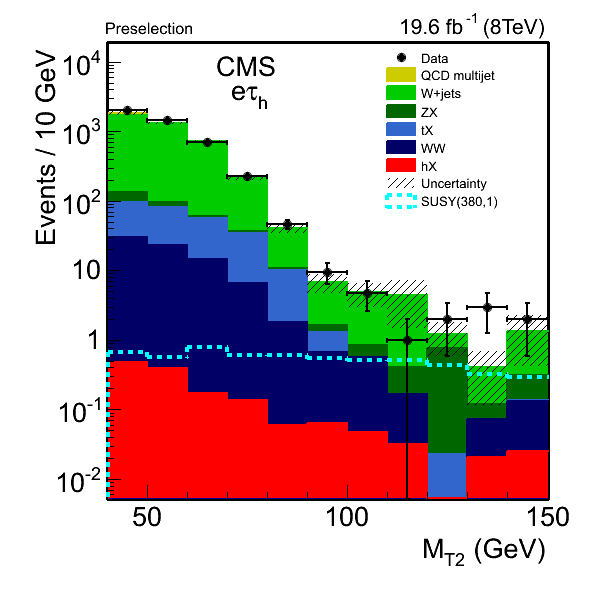
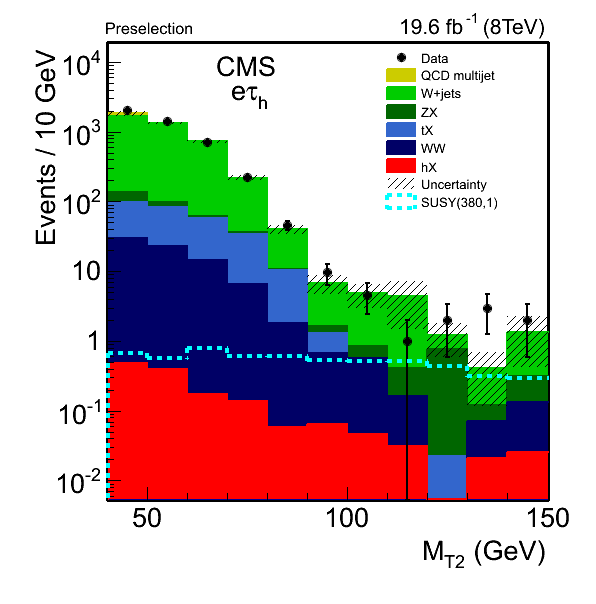
Fig.2 is updated

diff --git a/papers/SUS-14-022/trunk/SelectionEleTau/MT2_eletau.C b/papers/SUS-14-022/trunk/SelectionEleTau/MT2_eletau.C
@@ -1,7 +1,7 @@
 {
 //=========Macro generated from canvas: MT2/
-//=========  (Sat Jul 16 12:44:38 2016) by ROOT version5.34/03
-   TCanvas *MT2 = new TCanvas("MT2", "",295,82,600,632);
+//=========  (Sat Jul 16 15:17:55 2016) by ROOT version5.34/03
+   TCanvas *MT2 = new TCanvas("MT2", "",295,71,600,634);
    gStyle->SetOptFit(1);
    gROOT->SetEditHistograms();
    MT2->SetHighLightColor(2);
@@ -27,36 +27,36 @@
    MT2PreCut_MT2->SetMinimum(0.02);
    MT2PreCut_MT2->SetMaximum(9150.271);
    
-   TH1F *MT2PreCut_MT2_stack_2_stack_1_stack_1_stack_1_stack_1_stack_1 = new TH1F("MT2PreCut_MT2_stack_2_stack_1_stack_1_stack_1_stack_1_stack_1","",11,40,150);
-   MT2PreCut_MT2_stack_2_stack_1_stack_1_stack_1_stack_1_stack_1->SetMinimum(0.005221657);
-   MT2PreCut_MT2_stack_2_stack_1_stack_1_stack_1_stack_1_stack_1->SetMaximum(19509.12);
-   MT2PreCut_MT2_stack_2_stack_1_stack_1_stack_1_stack_1_stack_1->SetDirectory(0);
-   MT2PreCut_MT2_stack_2_stack_1_stack_1_stack_1_stack_1_stack_1->SetStats(0);
+   TH1F *MT2PreCut_MT2_stack_2_stack_1_stack_1_stack_1_stack_1_stack_1_stack_1 = new TH1F("MT2PreCut_MT2_stack_2_stack_1_stack_1_stack_1_stack_1_stack_1_stack_1","",11,40,150);
+   MT2PreCut_MT2_stack_2_stack_1_stack_1_stack_1_stack_1_stack_1_stack_1->SetMinimum(0.005221657);
+   MT2PreCut_MT2_stack_2_stack_1_stack_1_stack_1_stack_1_stack_1_stack_1->SetMaximum(19509.12);
+   MT2PreCut_MT2_stack_2_stack_1_stack_1_stack_1_stack_1_stack_1_stack_1->SetDirectory(0);
+   MT2PreCut_MT2_stack_2_stack_1_stack_1_stack_1_stack_1_stack_1_stack_1->SetStats(0);
 
    Int_t ci;   // for color index setting
    ci = TColor::GetColor("#000099");
-   MT2PreCut_MT2_stack_2_stack_1_stack_1_stack_1_stack_1_stack_1->SetLineColor(ci);
-   MT2PreCut_MT2_stack_2_stack_1_stack_1_stack_1_stack_1_stack_1->SetLineWidth(2);
-   MT2PreCut_MT2_stack_2_stack_1_stack_1_stack_1_stack_1_stack_1->SetMarkerSize(2);
-   MT2PreCut_MT2_stack_2_stack_1_stack_1_stack_1_stack_1_stack_1->GetXaxis()->SetTitle("M_{T2} (GeV)");
-   MT2PreCut_MT2_stack_2_stack_1_stack_1_stack_1_stack_1_stack_1->GetXaxis()->SetNdivisions(505);
-   MT2PreCut_MT2_stack_2_stack_1_stack_1_stack_1_stack_1_stack_1->GetXaxis()->SetLabelFont(42);
-   MT2PreCut_MT2_stack_2_stack_1_stack_1_stack_1_stack_1_stack_1->GetXaxis()->SetLabelSize(0.05);
-   MT2PreCut_MT2_stack_2_stack_1_stack_1_stack_1_stack_1_stack_1->GetXaxis()->SetTitleSize(0.05);
-   MT2PreCut_MT2_stack_2_stack_1_stack_1_stack_1_stack_1_stack_1->GetXaxis()->SetTitleOffset(1.1);
-   MT2PreCut_MT2_stack_2_stack_1_stack_1_stack_1_stack_1_stack_1->GetXaxis()->SetTitleFont(42);
-   MT2PreCut_MT2_stack_2_stack_1_stack_1_stack_1_stack_1_stack_1->GetYaxis()->SetTitle("Events / 10 GeV");
-   MT2PreCut_MT2_stack_2_stack_1_stack_1_stack_1_stack_1_stack_1->GetYaxis()->SetNdivisions(505);
-   MT2PreCut_MT2_stack_2_stack_1_stack_1_stack_1_stack_1_stack_1->GetYaxis()->SetLabelFont(42);
-   MT2PreCut_MT2_stack_2_stack_1_stack_1_stack_1_stack_1_stack_1->GetYaxis()->SetLabelSize(0.05);
-   MT2PreCut_MT2_stack_2_stack_1_stack_1_stack_1_stack_1_stack_1->GetYaxis()->SetTitleSize(0.05);
-   MT2PreCut_MT2_stack_2_stack_1_stack_1_stack_1_stack_1_stack_1->GetYaxis()->SetTitleOffset(1.3);
-   MT2PreCut_MT2_stack_2_stack_1_stack_1_stack_1_stack_1_stack_1->GetYaxis()->SetTitleFont(42);
-   MT2PreCut_MT2_stack_2_stack_1_stack_1_stack_1_stack_1_stack_1->GetZaxis()->SetLabelFont(42);
-   MT2PreCut_MT2_stack_2_stack_1_stack_1_stack_1_stack_1_stack_1->GetZaxis()->SetLabelSize(0.035);
-   MT2PreCut_MT2_stack_2_stack_1_stack_1_stack_1_stack_1_stack_1->GetZaxis()->SetTitleSize(0.035);
-   MT2PreCut_MT2_stack_2_stack_1_stack_1_stack_1_stack_1_stack_1->GetZaxis()->SetTitleFont(42);
-   MT2PreCut_MT2->SetHistogram(MT2PreCut_MT2_stack_2_stack_1_stack_1_stack_1_stack_1_stack_1);
+   MT2PreCut_MT2_stack_2_stack_1_stack_1_stack_1_stack_1_stack_1_stack_1->SetLineColor(ci);
+   MT2PreCut_MT2_stack_2_stack_1_stack_1_stack_1_stack_1_stack_1_stack_1->SetLineWidth(2);
+   MT2PreCut_MT2_stack_2_stack_1_stack_1_stack_1_stack_1_stack_1_stack_1->SetMarkerSize(2);
+   MT2PreCut_MT2_stack_2_stack_1_stack_1_stack_1_stack_1_stack_1_stack_1->GetXaxis()->SetTitle("M_{T2} (GeV)");
+   MT2PreCut_MT2_stack_2_stack_1_stack_1_stack_1_stack_1_stack_1_stack_1->GetXaxis()->SetNdivisions(505);
+   MT2PreCut_MT2_stack_2_stack_1_stack_1_stack_1_stack_1_stack_1_stack_1->GetXaxis()->SetLabelFont(42);
+   MT2PreCut_MT2_stack_2_stack_1_stack_1_stack_1_stack_1_stack_1_stack_1->GetXaxis()->SetLabelSize(0.05);
+   MT2PreCut_MT2_stack_2_stack_1_stack_1_stack_1_stack_1_stack_1_stack_1->GetXaxis()->SetTitleSize(0.05);
+   MT2PreCut_MT2_stack_2_stack_1_stack_1_stack_1_stack_1_stack_1_stack_1->GetXaxis()->SetTitleOffset(1.1);
+   MT2PreCut_MT2_stack_2_stack_1_stack_1_stack_1_stack_1_stack_1_stack_1->GetXaxis()->SetTitleFont(42);
+   MT2PreCut_MT2_stack_2_stack_1_stack_1_stack_1_stack_1_stack_1_stack_1->GetYaxis()->SetTitle("Events / 10 GeV");
+   MT2PreCut_MT2_stack_2_stack_1_stack_1_stack_1_stack_1_stack_1_stack_1->GetYaxis()->SetNdivisions(505);
+   MT2PreCut_MT2_stack_2_stack_1_stack_1_stack_1_stack_1_stack_1_stack_1->GetYaxis()->SetLabelFont(42);
+   MT2PreCut_MT2_stack_2_stack_1_stack_1_stack_1_stack_1_stack_1_stack_1->GetYaxis()->SetLabelSize(0.05);
+   MT2PreCut_MT2_stack_2_stack_1_stack_1_stack_1_stack_1_stack_1_stack_1->GetYaxis()->SetTitleSize(0.05);
+   MT2PreCut_MT2_stack_2_stack_1_stack_1_stack_1_stack_1_stack_1_stack_1->GetYaxis()->SetTitleOffset(1.3);
+   MT2PreCut_MT2_stack_2_stack_1_stack_1_stack_1_stack_1_stack_1_stack_1->GetYaxis()->SetTitleFont(42);
+   MT2PreCut_MT2_stack_2_stack_1_stack_1_stack_1_stack_1_stack_1_stack_1->GetZaxis()->SetLabelFont(42);
+   MT2PreCut_MT2_stack_2_stack_1_stack_1_stack_1_stack_1_stack_1_stack_1->GetZaxis()->SetLabelSize(0.035);
+   MT2PreCut_MT2_stack_2_stack_1_stack_1_stack_1_stack_1_stack_1_stack_1->GetZaxis()->SetTitleSize(0.035);
+   MT2PreCut_MT2_stack_2_stack_1_stack_1_stack_1_stack_1_stack_1_stack_1->GetZaxis()->SetTitleFont(42);
+   MT2PreCut_MT2->SetHistogram(MT2PreCut_MT2_stack_2_stack_1_stack_1_stack_1_stack_1_stack_1_stack_1);
    
    
    TH1D *MT2PreCut_MT2_Higgs18__6 = new TH1D("MT2PreCut_MT2_Higgs18__6","",11,40,150);
@@ -356,6 +356,8 @@
    MT2PreCut_MT2_QCD13__1->GetZaxis()->SetTitleFont(42);
    MT2PreCut_MT2->Add(MT2PreCut_MT2_QCD13__1,"");
    MT2PreCut_MT2->Draw("hist");
+   TExec *exec = new TExec("setex1","gStyle->SetErrorX(0.5)");
+   exec->Draw();
    
    TH1D *h__MC = new TH1D("h__MC","",11,40,150);
    h__MC->SetBinContent(1,1826.86);
@@ -403,6 +405,8 @@
    h__MC->GetZaxis()->SetTitleSize(0.035);
    h__MC->GetZaxis()->SetTitleFont(42);
    h__MC->Draw("E2 SAME");
+   exec = new TExec("setex1","gStyle->SetErrorX(0.0)");
+   exec->Draw();
    
    TH1D *h2_copy19__7 = new TH1D("h2_copy19__7","",11,40,150);
    h2_copy19__7->SetBinContent(1,2027);
@@ -411,7 +415,7 @@
    h2_copy19__7->SetBinContent(4,225);
    h2_copy19__7->SetBinContent(5,46);
    h2_copy19__7->SetBinContent(6,9.603963);
-   h2_copy19__7->SetBinContent(7,4.791101);
+   h2_copy19__7->SetBinContent(7,4.631486);
    h2_copy19__7->SetBinContent(8,1);
    h2_copy19__7->SetBinContent(9,2);
    h2_copy19__7->SetBinContent(10,3);
@@ -429,7 +433,7 @@
    h2_copy19__7->SetBinError(11,1.414214);
    h2_copy19__7->SetBinError(12,1);
    h2_copy19__7->SetMaximum(9150.271);
-   h2_copy19__7->SetEntries(5458);
+   h2_copy19__7->SetEntries(5459);
    h2_copy19__7->SetFillColor(1);
    h2_copy19__7->SetLineWidth(2);
    h2_copy19__7->SetMarkerStyle(20);

diff --git a/papers/SUS-14-022/trunk/SelectionMuTau/MT2_mutau.C b/papers/SUS-14-022/trunk/SelectionMuTau/MT2_mutau.C
@@ -1,7 +1,7 @@
 {
 //=========Macro generated from canvas: MT2_Ratio_Preselection_unBlinded/
-//=========  (Sat Jul 16 12:46:00 2016) by ROOT version5.34/03
-   TCanvas *MT2_Ratio_Preselection_unBlinded = new TCanvas("MT2_Ratio_Preselection_unBlinded", "",294,92,600,632);
+//=========  (Sat Jul 16 15:19:43 2016) by ROOT version5.34/03
+   TCanvas *MT2_Ratio_Preselection_unBlinded = new TCanvas("MT2_Ratio_Preselection_unBlinded", "",294,114,600,634);
    gStyle->SetOptFit(1);
    MT2_Ratio_Preselection_unBlinded->Range(13.31066,-3.83404,161.9728,5.159975);
    MT2_Ratio_Preselection_unBlinded->SetFillColor(0);
@@ -25,35 +25,35 @@
    h_stack->SetMinimum(0.02);
    h_stack->SetMaximum(15642.19);
    
-   TH1F *h_stack_stack_1_stack_2_stack_1_stack_1_stack_1_stack_1_stack_1_stack_1 = new TH1F("h_stack_stack_1_stack_2_stack_1_stack_1_stack_1_stack_1_stack_1_stack_1","",11,40,150);
-   h_stack_stack_1_stack_2_stack_1_stack_1_stack_1_stack_1_stack_1_stack_1->SetMinimum(0.00506761);
-   h_stack_stack_1_stack_2_stack_1_stack_1_stack_1_stack_1_stack_1_stack_1->SetMaximum(34078.91);
-   h_stack_stack_1_stack_2_stack_1_stack_1_stack_1_stack_1_stack_1_stack_1->SetDirectory(0);
-   h_stack_stack_1_stack_2_stack_1_stack_1_stack_1_stack_1_stack_1_stack_1->SetStats(0);
+   TH1F *h_stack_stack_1_stack_2_stack_1_stack_1_stack_1_stack_1_stack_1_stack_1_stack_1 = new TH1F("h_stack_stack_1_stack_2_stack_1_stack_1_stack_1_stack_1_stack_1_stack_1_stack_1","",11,40,150);
+   h_stack_stack_1_stack_2_stack_1_stack_1_stack_1_stack_1_stack_1_stack_1_stack_1->SetMinimum(0.00506761);
+   h_stack_stack_1_stack_2_stack_1_stack_1_stack_1_stack_1_stack_1_stack_1_stack_1->SetMaximum(34078.91);
+   h_stack_stack_1_stack_2_stack_1_stack_1_stack_1_stack_1_stack_1_stack_1_stack_1->SetDirectory(0);
+   h_stack_stack_1_stack_2_stack_1_stack_1_stack_1_stack_1_stack_1_stack_1_stack_1->SetStats(0);
 
    Int_t ci;   // for color index setting
    ci = TColor::GetColor("#000099");
-   h_stack_stack_1_stack_2_stack_1_stack_1_stack_1_stack_1_stack_1_stack_1->SetLineColor(ci);
-   h_stack_stack_1_stack_2_stack_1_stack_1_stack_1_stack_1_stack_1_stack_1->SetLineWidth(2);
-   h_stack_stack_1_stack_2_stack_1_stack_1_stack_1_stack_1_stack_1_stack_1->GetXaxis()->SetTitle("M_{T2} (GeV)");
-   h_stack_stack_1_stack_2_stack_1_stack_1_stack_1_stack_1_stack_1_stack_1->GetXaxis()->SetNdivisions(505);
-   h_stack_stack_1_stack_2_stack_1_stack_1_stack_1_stack_1_stack_1_stack_1->GetXaxis()->SetLabelFont(42);
-   h_stack_stack_1_stack_2_stack_1_stack_1_stack_1_stack_1_stack_1_stack_1->GetXaxis()->SetLabelSize(0.05);
-   h_stack_stack_1_stack_2_stack_1_stack_1_stack_1_stack_1_stack_1_stack_1->GetXaxis()->SetTitleSize(0.05);
-   h_stack_stack_1_stack_2_stack_1_stack_1_stack_1_stack_1_stack_1_stack_1->GetXaxis()->SetTitleOffset(1.1);
-   h_stack_stack_1_stack_2_stack_1_stack_1_stack_1_stack_1_stack_1_stack_1->GetXaxis()->SetTitleFont(42);
-   h_stack_stack_1_stack_2_stack_1_stack_1_stack_1_stack_1_stack_1_stack_1->GetYaxis()->SetTitle("Events / 10 GeV");
-   h_stack_stack_1_stack_2_stack_1_stack_1_stack_1_stack_1_stack_1_stack_1->GetYaxis()->SetNdivisions(505);
-   h_stack_stack_1_stack_2_stack_1_stack_1_stack_1_stack_1_stack_1_stack_1->GetYaxis()->SetLabelFont(42);
-   h_stack_stack_1_stack_2_stack_1_stack_1_stack_1_stack_1_stack_1_stack_1->GetYaxis()->SetLabelSize(0.05);
-   h_stack_stack_1_stack_2_stack_1_stack_1_stack_1_stack_1_stack_1_stack_1->GetYaxis()->SetTitleSize(0.05);
-   h_stack_stack_1_stack_2_stack_1_stack_1_stack_1_stack_1_stack_1_stack_1->GetYaxis()->SetTitleOffset(1.3);
-   h_stack_stack_1_stack_2_stack_1_stack_1_stack_1_stack_1_stack_1_stack_1->GetYaxis()->SetTitleFont(42);
-   h_stack_stack_1_stack_2_stack_1_stack_1_stack_1_stack_1_stack_1_stack_1->GetZaxis()->SetLabelFont(42);
-   h_stack_stack_1_stack_2_stack_1_stack_1_stack_1_stack_1_stack_1_stack_1->GetZaxis()->SetLabelSize(0.035);
-   h_stack_stack_1_stack_2_stack_1_stack_1_stack_1_stack_1_stack_1_stack_1->GetZaxis()->SetTitleSize(0.035);
-   h_stack_stack_1_stack_2_stack_1_stack_1_stack_1_stack_1_stack_1_stack_1->GetZaxis()->SetTitleFont(42);
-   h_stack->SetHistogram(h_stack_stack_1_stack_2_stack_1_stack_1_stack_1_stack_1_stack_1_stack_1);
+   h_stack_stack_1_stack_2_stack_1_stack_1_stack_1_stack_1_stack_1_stack_1_stack_1->SetLineColor(ci);
+   h_stack_stack_1_stack_2_stack_1_stack_1_stack_1_stack_1_stack_1_stack_1_stack_1->SetLineWidth(2);
+   h_stack_stack_1_stack_2_stack_1_stack_1_stack_1_stack_1_stack_1_stack_1_stack_1->GetXaxis()->SetTitle("M_{T2} (GeV)");
+   h_stack_stack_1_stack_2_stack_1_stack_1_stack_1_stack_1_stack_1_stack_1_stack_1->GetXaxis()->SetNdivisions(505);
+   h_stack_stack_1_stack_2_stack_1_stack_1_stack_1_stack_1_stack_1_stack_1_stack_1->GetXaxis()->SetLabelFont(42);
+   h_stack_stack_1_stack_2_stack_1_stack_1_stack_1_stack_1_stack_1_stack_1_stack_1->GetXaxis()->SetLabelSize(0.05);
+   h_stack_stack_1_stack_2_stack_1_stack_1_stack_1_stack_1_stack_1_stack_1_stack_1->GetXaxis()->SetTitleSize(0.05);
+   h_stack_stack_1_stack_2_stack_1_stack_1_stack_1_stack_1_stack_1_stack_1_stack_1->GetXaxis()->SetTitleOffset(1.1);
+   h_stack_stack_1_stack_2_stack_1_stack_1_stack_1_stack_1_stack_1_stack_1_stack_1->GetXaxis()->SetTitleFont(42);
+   h_stack_stack_1_stack_2_stack_1_stack_1_stack_1_stack_1_stack_1_stack_1_stack_1->GetYaxis()->SetTitle("Events / 10 GeV");
+   h_stack_stack_1_stack_2_stack_1_stack_1_stack_1_stack_1_stack_1_stack_1_stack_1->GetYaxis()->SetNdivisions(505);
+   h_stack_stack_1_stack_2_stack_1_stack_1_stack_1_stack_1_stack_1_stack_1_stack_1->GetYaxis()->SetLabelFont(42);
+   h_stack_stack_1_stack_2_stack_1_stack_1_stack_1_stack_1_stack_1_stack_1_stack_1->GetYaxis()->SetLabelSize(0.05);
+   h_stack_stack_1_stack_2_stack_1_stack_1_stack_1_stack_1_stack_1_stack_1_stack_1->GetYaxis()->SetTitleSize(0.05);
+   h_stack_stack_1_stack_2_stack_1_stack_1_stack_1_stack_1_stack_1_stack_1_stack_1->GetYaxis()->SetTitleOffset(1.3);
+   h_stack_stack_1_stack_2_stack_1_stack_1_stack_1_stack_1_stack_1_stack_1_stack_1->GetYaxis()->SetTitleFont(42);
+   h_stack_stack_1_stack_2_stack_1_stack_1_stack_1_stack_1_stack_1_stack_1_stack_1->GetZaxis()->SetLabelFont(42);
+   h_stack_stack_1_stack_2_stack_1_stack_1_stack_1_stack_1_stack_1_stack_1_stack_1->GetZaxis()->SetLabelSize(0.035);
+   h_stack_stack_1_stack_2_stack_1_stack_1_stack_1_stack_1_stack_1_stack_1_stack_1->GetZaxis()->SetTitleSize(0.035);
+   h_stack_stack_1_stack_2_stack_1_stack_1_stack_1_stack_1_stack_1_stack_1_stack_1->GetZaxis()->SetTitleFont(42);
+   h_stack->SetHistogram(h_stack_stack_1_stack_2_stack_1_stack_1_stack_1_stack_1_stack_1_stack_1_stack_1);
    
    Double_t xAxis1[12] = {40, 50, 60, 70, 80, 90, 100, 110, 120, 130, 140, 150}; 
    
@@ -341,6 +341,8 @@
    h__QCD->GetZaxis()->SetTitleFont(42);
    h_stack->Add(h__QCD,"");
    h_stack->Draw("hist");
+   TExec *exec = new TExec("setex1","gStyle->SetErrorX(0.5)");
+   exec->Draw();
    Double_t xAxis7[12] = {40, 50, 60, 70, 80, 90, 100, 110, 120, 130, 140, 150}; 
    
    TH1D *h__MC = new TH1D("h__MC","",11, xAxis7);
@@ -389,6 +391,8 @@
    h__MC->GetZaxis()->SetTitleSize(0.035);
    h__MC->GetZaxis()->SetTitleFont(42);
    h__MC->Draw("E2 SAME");
+   exec = new TExec("setex1","gStyle->SetErrorX(0.0)");
+   exec->Draw();
    Double_t xAxis8[12] = {40, 50, 60, 70, 80, 90, 100, 110, 120, 130, 140, 150}; 
    
    TH1D *h2_copy = new TH1D("h2_copy","",11, xAxis8);
